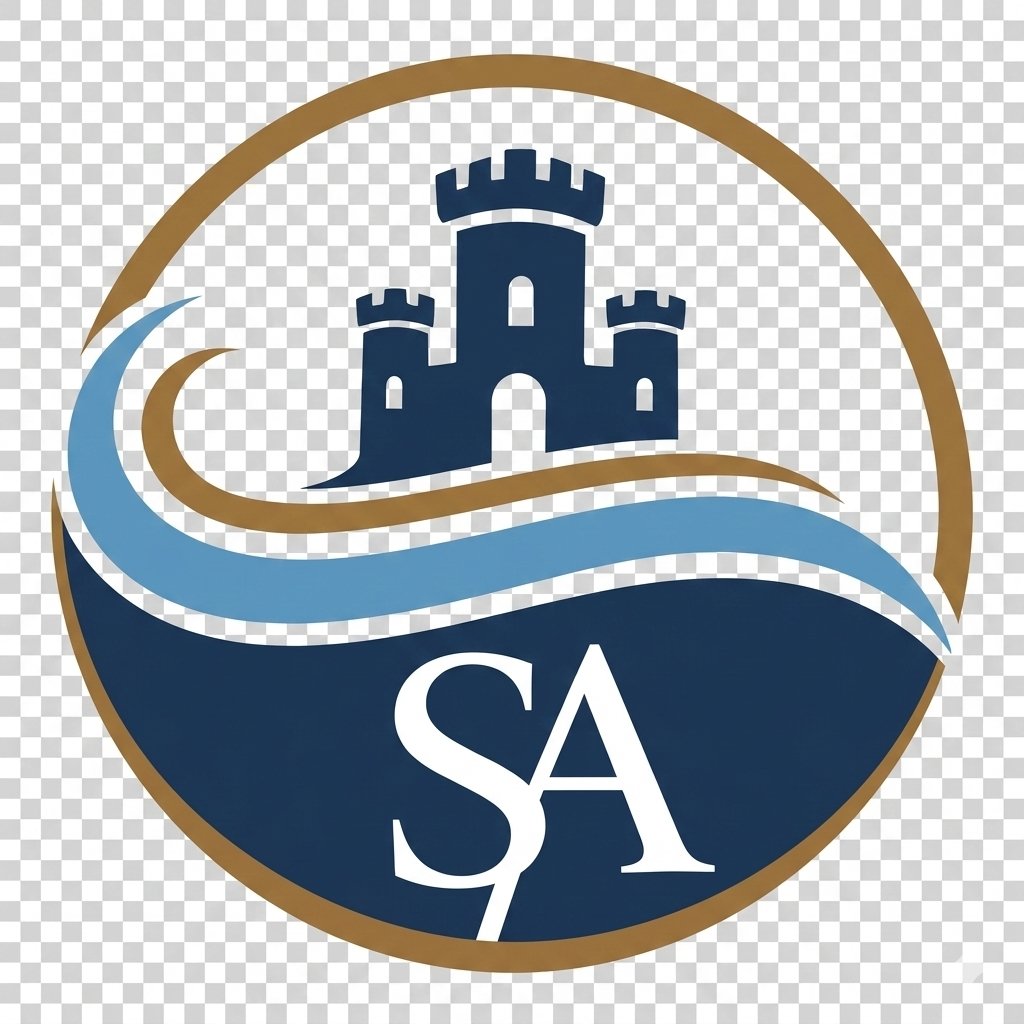
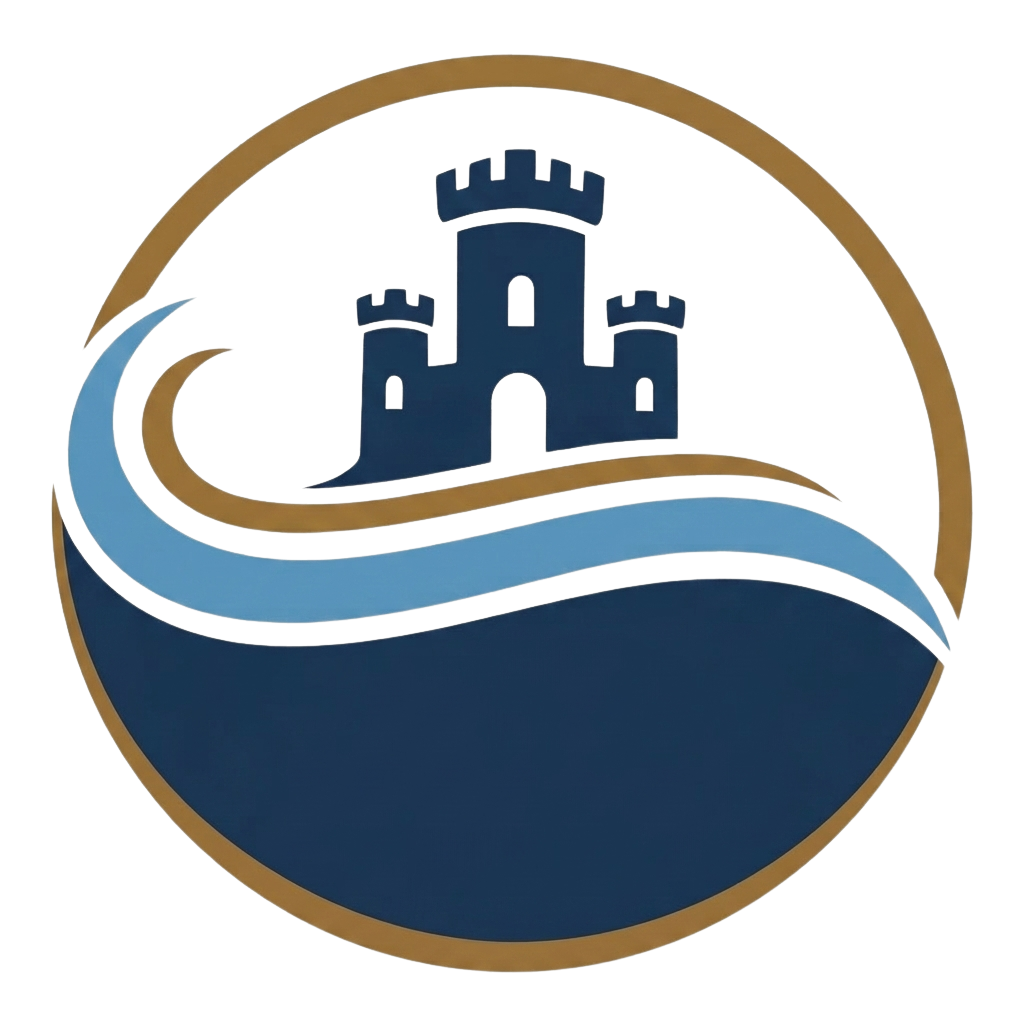
mejoras en el icono y error de compilacion de next.js

diff --git a/app/layout.tsx b/app/layout.tsx
@@ -1,5 +1,5 @@
 import type { Metadata } from 'next'
-import { Playfair_Display, Inter } from 'next/font/google'
+import { Playfair_Display, Inter, Poppins } from 'next/font/google'
 import { Analytics } from '@vercel/analytics/next'
 import './globals.css'
 
@@ -11,6 +11,12 @@ const playfair = Playfair_Display({
 const inter = Inter({ 
   subsets: ["latin"],
   variable: '--font-sans'
+});
+
+const poppins = Poppins({
+  subsets: ['latin'],
+  weight: ['400','600','700'],
+  variable: '--font-poppins'
 });
 
 export const metadata: Metadata = {
@@ -30,7 +36,7 @@ export default function RootLayout({
 }>) {
   return (
     <html lang="en">
-      <body className={`${playfair.variable} ${inter.variable} font-sans antialiased`}>
+      <body className={`${playfair.variable} ${inter.variable} ${poppins.variable} font-sans antialiased`}>
         {children}
         <Analytics />
       </body>

diff --git a/app/producto/[id]/page.tsx b/app/producto/[id]/page.tsx
@@ -49,8 +49,8 @@ export default function ProductPage({ params }: { params: Promise<{ id: string }
             </Link>
 
             <div className="flex items-center gap-3">
-              <div className="w-8 h-8 bg-primary rounded-full flex items-center justify-center border-2 border-accent">
-                <span className="text-primary-foreground font-serif font-bold text-xs">AC</span>
+              <div className="relative w-12 h-12 flex-shrink-0 rounded-full overflow-hidden">
+                <Image src="/icon.png" alt="AC Tech Logo" fill className="object-contain bg-transparent" />
               </div>
               <span className="font-serif font-semibold text-foreground hidden sm:block">AC Tech</span>
             </div>
@@ -220,8 +220,8 @@ export default function ProductPage({ params }: { params: Promise<{ id: string }
         <div className="max-w-7xl mx-auto px-4 sm:px-6 lg:px-8 py-8">
           <div className="flex flex-col sm:flex-row items-center justify-between gap-4">
             <div className="flex items-center gap-3">
-              <div className="w-8 h-8 bg-primary rounded-full flex items-center justify-center border-2 border-accent">
-                <span className="text-primary-foreground font-serif font-bold text-xs">AC</span>
+              <div className="relative w-12 h-12 flex-shrink-0 rounded-full overflow-hidden">
+                <Image src="/icon.png" alt="AC Tech Logo" fill className="object-contain bg-transparent" />
               </div>
               <p className="text-sm text-muted-foreground">
                 © 2026 Arroyo-Castillo SAS

diff --git a/app/globals.css b/app/globals.css
@@ -75,6 +75,7 @@
 }
 
 @theme inline {
+  --font-poppins: var(--font-poppins), 'Poppins', sans-serif;
   --font-sans: var(--font-sans), 'Inter', sans-serif;
   --font-serif: var(--font-serif), 'Playfair Display', serif;
   --font-mono: 'Geist Mono', 'Geist Mono Fallback';
@@ -122,5 +123,10 @@
   }
   body {
     @apply bg-background text-foreground;
+  }
+
+  /* Headings use Poppins */
+  h1, h2, h3, h4 {
+    font-family: var(--font-poppins);
   }
 }